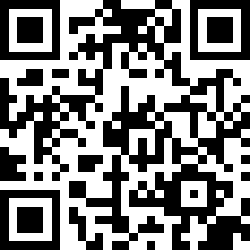
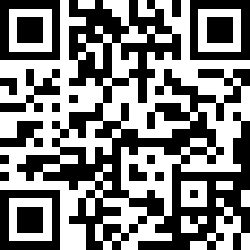
Riviera dev 2024 (#7)
* feat: ✨ logos and links for Devoxx France 2024

* feat: 🏞 add Devoxx graphics

* feat: ✨ Devoxx FR 2024

* conf: ⚙ exclude build folder

* feat: 🐛 fix title position

* doc: 📝 add ai stuff

* doc: 📝 add endpoints slide and booth

* feat: 🧠 Add AI Endpoints info

* feat: 🧠 AI Endpoints

* conf: 🛠 Animate plugin update

* clean: 🗑 Remove Devoxx CSS

* clean: 🗑 remove unused elements from Devoxx

* feat: 🖼 full image settings

* feat: ✨ z-index on footer

* feat: ✨ back to common prez

* fix: 🐛 minion heart to big

* feat: ✨ Thanks title on top

* doc: 🏞 add gray logo on main slide

* feat: ✨ add QR Codes

* feat: 📝 Riviera Dev Slides

* feat: ✨ Riviera Dev feedback

* fix: 🐛 replace QR Code for slides

diff --git a/plugins/animate/animate.js b/plugins/animate/animate.js
@@ -1,0 +1,107 @@
+document.addEventListener("DOMContentLoaded", () => {
+  const elements = document.querySelectorAll("body > section *");
+  elements.forEach((e) => {
+    e.setAttribute(
+      "data-animhash",
+      (
+        [...e.outerHTML].reduce(
+          (s, c) => (Math.imul(31, s) + c.charCodeAt(0)) | 0,
+          0
+        ) +
+        2147483647 +
+        1
+      ).toString(16)
+    );
+  });
+});
+
+const animation = ({ duration, timing, draw, done }) => {
+  const start = performance.now();
+  requestAnimationFrame(function animate(time) {
+    let timeFraction = (time - start) / duration;
+    if (timeFraction > 1) timeFraction = 1;
+    const progress = timing(timeFraction);
+    draw(progress);
+    if (timeFraction < 1) {
+      requestAnimationFrame(animate);
+    } else {
+      done();
+    }
+  });
+};
+
+window.slidesk.animateElements = () => {
+  if (window.slidesk.currentSlide !== 0) {
+    const prevHashes = [
+      ...document.querySelectorAll(
+        "section.sd-previous.animate [data-animhash]"
+      ),
+    ].map((e) => e.getAttribute("data-animhash"));
+    const currentHashes = [
+      ...document.querySelectorAll(
+        "section.sd-current.animate [data-animhash]"
+      ),
+    ].map((e) => e.getAttribute("data-animhash"));
+    currentHashes
+      .filter((value) => prevHashes.includes(value))
+      .forEach((intersection) => {
+        const prevEl = document.querySelector(
+          `section.sd-previous.animate [data-animhash="${intersection}"]`
+        );
+        const pBCR = prevEl.getBoundingClientRect();
+        const pCS = window.getComputedStyle(prevEl);
+        const currEl = document.querySelector(
+          `section.sd-current.animate [data-animhash="${intersection}"]`
+        );
+        const cBCR = currEl.getBoundingClientRect();
+        currEl.style.opacity = 0;
+        const ghost = prevEl.cloneNode(true);
+        [...pCS].forEach((key) => {
+          ghost.style.setProperty(
+            key,
+            pCS.getPropertyValue(key),
+            pCS.getPropertyPriority(key)
+          );
+        });
+        ghost.style.position = "absolute";
+        ghost.style.top = `${pBCR.top}px`;
+        ghost.style.left = `${pBCR.left}px`;
+        ghost.style.bottom = `${pBCR.bottom}px`;
+        ghost.style.right = `${pBCR.right}px`;
+        ghost.style.width = `${pBCR.width}px`;
+        ghost.style.height = `${pBCR.height}px`;
+        ghost.style.margin = "0";
+        window.slidesk.slides[window.slidesk.currentSlide].appendChild(ghost);
+        animation({
+          duration: window.slidesk.animationTimer,
+          timing: (timeFraction) => timeFraction,
+          draw: (progress) => {
+            ghost.style.top = `${
+              pBCR.top + progress * (cBCR.top - pBCR.top)
+            }px`;
+            ghost.style.left = `${
+              pBCR.left + progress * (cBCR.left - pBCR.left)
+            }px`;
+            ghost.style.bottom = `${
+              pBCR.bottom + progress * (cBCR.bottom - pBCR.bottom)
+            }px`;
+            ghost.style.right = `${
+              pBCR.right + progress * (cBCR.right - pBCR.right)
+            }px`;
+            ghost.style.width = `${
+              pBCR.width + progress * (cBCR.width - pBCR.width)
+            }px`;
+            ghost.style.height = `${
+              pBCR.height + progress * (cBCR.height - pBCR.height)
+            }px`;
+          },
+          done: () => {
+            currEl.style.opacity = 1;
+            window.slidesk.slides[window.slidesk.currentSlide].removeChild(
+              ghost
+            );
+          },
+        });
+      });
+  }
+};

diff --git a/assets/css/custom.css b/assets/css/custom.css
@@ -12,12 +12,12 @@
 
 @font-face {
   font-family: Amatic;
-  src: url(fonts/Amatic_SC/AmaticSC-Bold.ttf);
+  src: url(../fonts/Amatic_SC/AmaticSC-Bold.ttf);
 }
 
 @font-face {
   font-family: Montserrat;
-  src: url(fonts/Montserrat/Montserrat-VariableFont_wght.ttf);
+  src: url(../fonts/Montserrat/Montserrat-VariableFont_wght.ttf);
 }
 
 * {
@@ -61,8 +61,11 @@ h2 {
   line-height: 1.6em;
 }
 
-.lego {
-  background-image: url(images/lego.jpeg);
+/****
+ * CSS Styles for _java.sdf slide
+ ****/
+ .lego {
+  background-image: url(../images/lego.jpeg);
   background-size: cover;
   display: block;
 }
@@ -75,7 +78,7 @@ h2 {
  * CSS Styles for _demos.sdf slide
  ****/
 .demos {
-  background-image: url(images/demos.jpg);
+  background-image: url(../images/demos.jpg);
   background-size: cover;
   display: block;
 }
@@ -85,7 +88,7 @@ h2 {
 }
 
 .demo-image-author a {
-  color: black;
+  color: #fff;
 }
 
 /****
@@ -96,7 +99,7 @@ h2 {
 }
 
 .ovhcloud-world {
-  background-image: url(images/ovhcloud-world.png);
+  background-image: url(../images/ovhcloud-world.png);
   background-size: 95%;
   background-repeat: no-repeat;
   background-position: center;
@@ -104,8 +107,11 @@ h2 {
 }
 
 .ovhcloud-world h2 {
-  color: #000;
+  color: #260691;
   text-align: left;
+  position: absolute;
+  top: 5%;
+  left: 5%;
 }
 
 .graal h2 {
@@ -145,6 +151,16 @@ h2 {
 }
 
 /****
+* CSS styles for ai-everywhere
+****/
+.buzz-ai {
+  background-image: url(../images/buzz-ai.jpg);
+  background-size: cover;
+  display: block;
+}
+
+
+/****
  * Global styles
  ****/
 .img-right {
@@ -168,7 +184,6 @@ h2 {
 
 /** gestion des couleurs du footer **/
 .sd-slide.love.sd-current ~ .footer,
-.sd-slide.lego.sd-current ~ .footer,
 .sd-slide.demos.sd-current ~ .footer {
   color: #fff;
 }

diff --git a/plugins/footer/footer.html b/plugins/footer/footer.html
@@ -1,9 +1,9 @@
 <div class="footer">
-  <div class="ovhcloud-footer">
-    <img src="assets/images/OVHcloud_logo.png" alt="OVHcloud right logo" style="width: 20%" />
-  </div>
   <div class="author-footer">@wildagsx</div>
+  <div class="ovhcloud-footer">
+    <img src="assets/images/OVHcloud_logo.png" alt="OVHcloud logo" style="width: 15%;" />
+  </div>
   <div class="slide-footer">
-    <img src="assets/images/SnowCampLogo500x500.png" alt="Snowcamp center logo" style="width: 25%;margin: auto;" />
+    <img src="assets/images/riviera-dev-logo.png" alt="Riviera Dev center logo" style="width: 60%;margin: auto;" />
   </div>
 </div>

diff --git a/plugins/footer/footer.css b/plugins/footer/footer.css
@@ -1,7 +1,7 @@
 /****
  * CSS for center element
  ****/
-.footer {
+ .footer {
   position: fixed;
   left: 0;
   bottom: 0;
@@ -9,6 +9,7 @@
   color: rgb(0, 0, 0);
   text-align: center;
   transition: all var(--animationTimer) ease;
+  z-index: 10;
 }
 
 /****

diff --git a/plugins/animate/animate.css b/plugins/animate/animate.css
@@ -1,0 +1,14 @@
+.sd-slide {
+  transform: translateX(0);
+  opacity: 0;
+}
+
+.sd-slide.sd-current {
+  transform: translateX(0);
+  opacity: 1;
+  z-index: 1;
+}
+
+.sd-slide.sd-previous {
+  transform: translateX(0);
+}
